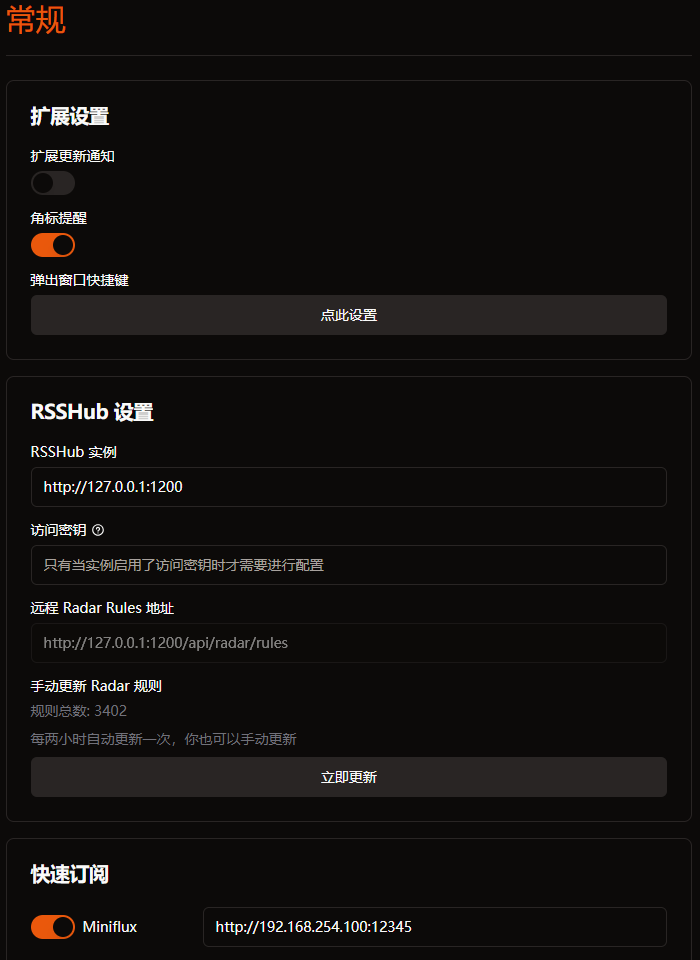
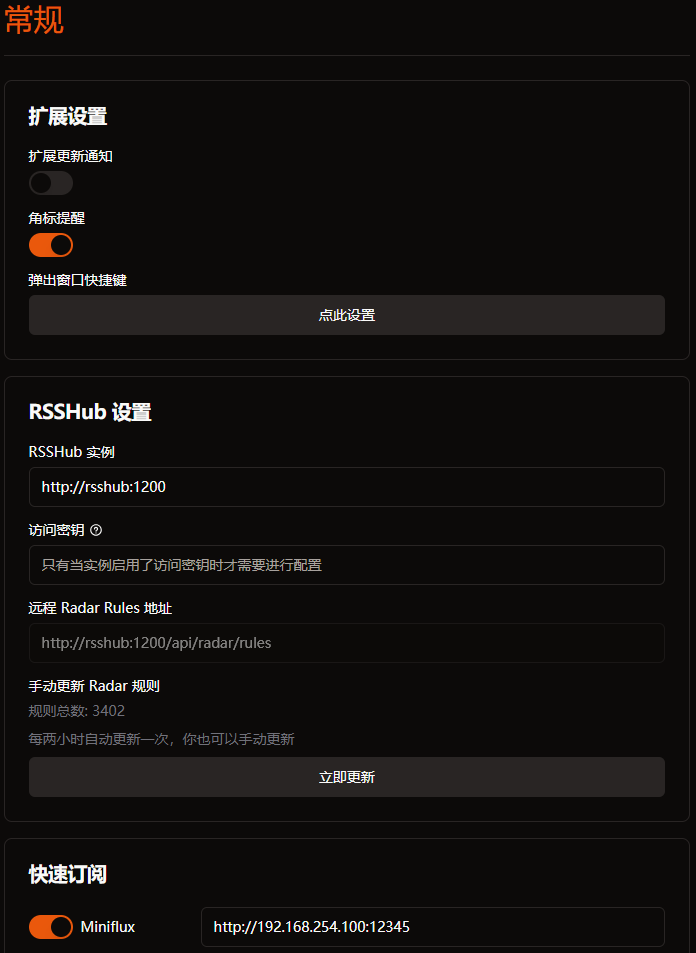
update post

diff --git a/_posts/2024-09-10-rsshub.md b/_posts/2024-09-10-rsshub.md
@@ -1,46 +1,36 @@
 ---
 layout: post
 title: rsshub及阅读器部署
-date: 2024-09-10 19:20 +0800
+date: 2024-09-10
+modified_date: 2024-09-13
 categories: 技术
 excerpt: 可部署在国内
 ---
 
-## rsshub 部署
+## rsshub miniflux 一键部署
 
-[使用指南](https://docs.rsshub.app/zh/routes/social-media)
-[配置](https://docs.rsshub.app/zh/deploy/config)
-
-rsshub-docker-compose 下载：[rsshub-docker-compose.yml](/download_files/rsshub-docker-compose.yml)
+docker-compose.yml 下载：[rsshub-docker-compose.yml](/download_files/rsshub-miniflux-docker-compose.yml)
 
 ```yml
 # 需要修改
-environment:
+rsshub:
+  environment:
     # PROXY_URI: 'http://localhost:10809' # 配置代理
     BILIBILI_COOKIE_{uid}: ''
     TWITTER_USERNAME: ''
     TWITTER_PASSWORD: ''
     TWITTER_AUTH_TOKEN: ''
     WEIBO_COOKIES: ''
-```
-
-访问：服务器ip:1200
-
-## miniflux 阅读器部署
-
-miniflux-docker-compose 下载：[miniflux-docker-compose.yml](/download_files/miniflux-docker-compose.yml)
-
-```yml
-# 需要修改
-environment:
+miniflux:
+  environment:
     - ADMIN_USERNAME=<用户名>
     - ADMIN_PASSWORD=<密码>
-    - PORT=12345
 ```
 
-访问：服务器ip:12345
+访问 rsshub：`服务器ip:1200`
+访问 miniflux：`服务器ip:12345`
 
-可设置：语言、文章排序（新→旧）、推送 telegram bot（设置 - 集成 - Telegram Bot）
+miniflux 可设置：语言、文章排序（新→旧）、推送 telegram bot（设置 - 集成 - Telegram Bot）
 
 > 集成 telegram：
 > 1. https://t.me/BotFather 新建机器人，获取令牌
@@ -54,34 +44,20 @@ environment:
 
 ### miniflux 添加源
 
-- 微博：http://127.0.0.1:1200/weibo/user/3966075666
-- ~~知乎：http://127.0.0.1:1200/zhihu/people/activities/ddaa117~~
-- 推特：http://127.0.0.1:1200/twitter/user/rinchan_nanoda
-- 油管：http://127.0.0.1:1200/youtube/community/@bulianglin
-- 哔哩哔哩：http://192.168.254.100:1200/bilibili/user/dynamic/53456
+- 微博：http://rsshub:1200/weibo/user/3966075666
+- ~~知乎：http://rsshub:1200/zhihu/people/activities/ddaa117~~
+- 推特：http://rsshub:1200/twitter/user/rinchan_nanoda
+- 油管：http://rsshub:1200/youtube/community/@bulianglin
+- 哔哩哔哩：http://rsshub:1200/bilibili/user/dynamic/53456
 
 ## 内存占用
 
 ```txt
-NAME                    MEM USAGE / LIMIT   
-miniflux_miniflux_1     32.09MiB / 3.79GiB  
-miniflux_db_1           38.76MiB / 3.79GiB  
-rsshub_rsshub_1         266MiB / 3.79GiB    
-rsshub_browserless_1    93.28MiB / 3.79GiB  
-rsshub_redis_1          8.977MiB / 3.79GiB  
-```
-
-## 配置 docker 容器走代理
-
-```shell
-root@debian:~# cat .docker/config.json 
-{
-  "proxies": {
-    "default": {
-      "httpProxy": "http://127.0.0.1:10809",
-      "httpsProxy": "http://127.0.0.1:10809",
-      "noProxy": "*.example.com"
-    }
-  }
-}
+root@debian:~# docker stats --no-stream
+NAME                     MEM USAGE / LIMIT 
+rsshub_miniflux_1        38.75MiB / 3.79GiB
+rsshub_rsshub_1          326.1MiB / 3.79GiB
+rsshub_redis_1           9.781MiB / 3.79GiB
+rsshub_db_1              25.62MiB / 3.79GiB
+rsshub_browserless_1     94.52MiB / 3.79GiB
 ```
